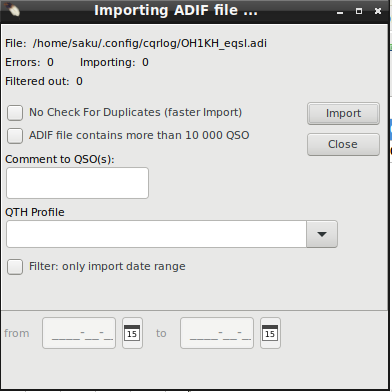
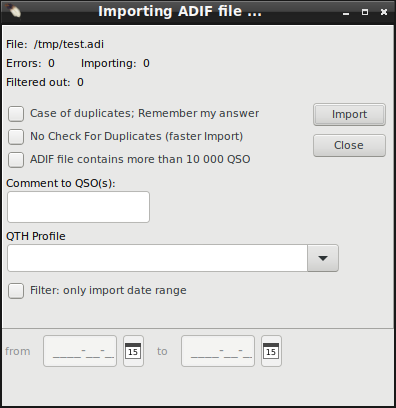
ADIF import. Remember my answer checkbox
In case of duplicates remember user's answer through whole import(ask only once at first duplicate entry).
This allows import an old log again if it has got just one or few new qsos.(No need to set up date filter)

Squashed commit of the following:

commit e9d2bf0e3d3f00b5c6e71388e206e590e36349d4
Author: OH1KH <oh1kh@sral.fi>
Date:   Mon Mar 16 13:17:56 2020 +0200

    help update

commit 5d611f654b9508d86e220a7911ff2bbe7acf1c73
Author: OH1KH <oh1kh@sral.fi>
Date:   Mon Mar 16 13:04:46 2020 +0200

    ADIF import: Case of duplicates. Remember my answer

diff --git a/help/h3.html b/help/h3.html
@@ -61,7 +61,7 @@
     You can fix the errors manually and import again. <br><br>
     <img src="img/h43.png" border="0"><br><br>
     Duplicate entries (contacts already in the log) are indicated with a separate dialog
-    allowing you to exclude or include these records.
+    allowing you to exclude or include these records. This will be asked every time a duplicate is found. If you check <b>Case of duplicates; Remember my answer</b> it is asked only once and then the same answer is used every time a duplicate is found.
     <p align=center><img src=img/line.png></p>
     <a name=ah25><strong>ADIF export</strong></a><br><br>
     Go to QSO list using Ctrl-O or choose the QSO list from the upper menu - item 'File'.<br><br>
